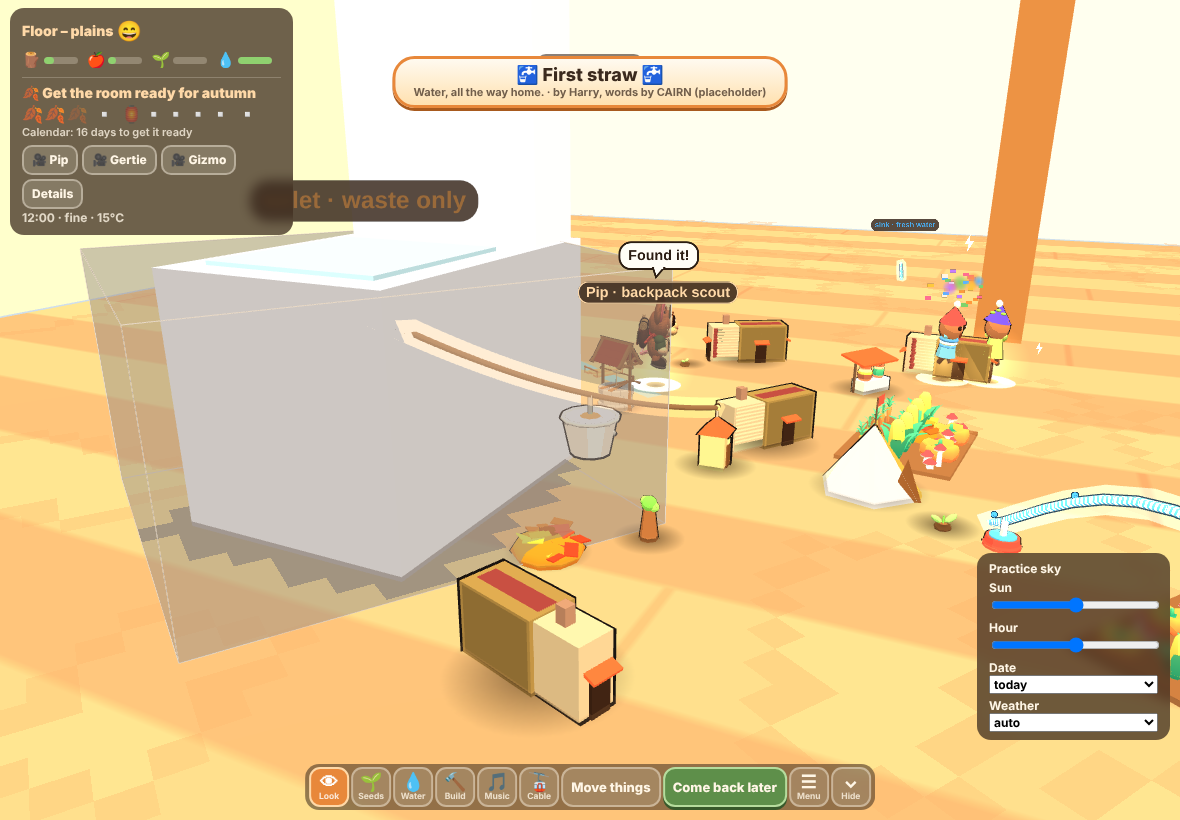
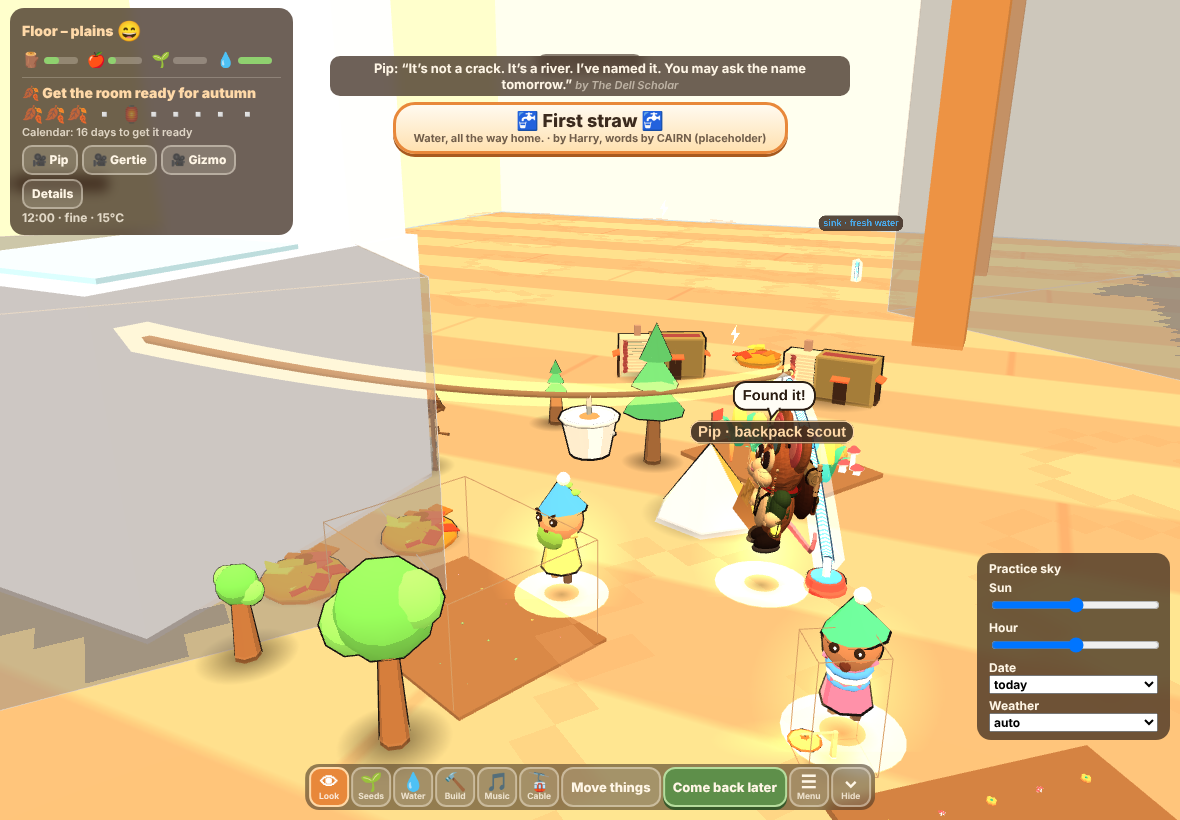
WIP build 18: detector tops, shots

diff --git a/games/base-camp/tests/water-test.js b/games/base-camp/tests/water-test.js
@@ -23,6 +23,7 @@ const paired = (p) => p.evaluate(() => {
   const was = add.map((o) => o.visible), r = G.renderer, i = r.info; i.reset(); r.render(G.scene, G.camera); const all = i.render.calls; for (const o of add) o.visible = false; i.reset(); r.render(G.scene, G.camera); const base = i.render.calls; add.forEach((o, k) => { o.visible = was[k]; }); return { all, base };
 });
 const view = (p, o) => p.evaluate((o) => { const hs = (S) => S.things.filter((t) => (t.kind === 'hut' || t.kind === 'farm') && t.built), S = __g.G.settlements.slice().sort((a, b) => hs(b).length - hs(a).length)[0], L = hs(S); let cx = 0, cz = 0; for (const t of L) { cx += t.x; cz += t.z; } cx /= Math.max(1, L.length); cz /= Math.max(1, L.length); const w = S.group.localToWorld(new __g.THREE.Vector3(cx, 0, cz)); __g.P.mode = 'orbit'; __g.P.yaw = o.yaw; __g.P.pitch = o.pitch; __g.focusOn(w.x + o.dx, w.y + 0.03, w.z + o.dz, o.d); }, o);
+const clean = (p) => p.evaluate(() => { for (const id of ['banner', 'toast']) { const e = document.getElementById(id); if (e) { e.className = ''; e.innerHTML = ''; } } __g.FUN.queue.length = 0; });
 (async () => {
   const { srv, url } = await serve(); const { b, p, errs } = await launch(); const ev = (f, a) => p.evaluate(f, a);
   await boot(p, url, null);
@@ -46,7 +47,7 @@ const view = (p, o) => p.evaluate((o) => { const hs = (S) => S.things.filter((t)
   await ev(() => { window.__rec = { phases: [], toast: '', name: '', walked: false }; window.__expFn = () => { const R = window.__rec, N = __g.G.net, S = __g.mainSettlement(), c = S.cols.find((q) => q.scout), j = c && c.job, ph = j && j.type === 'expedition' ? j.ph : ''; if (ph && R.phases[R.phases.length - 1] !== ph) R.phases.push(ph); if (ph === 'go' && c.moving) R.walked = true; const t = document.getElementById('toast').textContent; if (/found the/.test(t)) { R.toast = t; R.name = c.name; } return false; }; });
   for (let round = 0; round < 8; round++) {
     const r = await ev(() => { let lookAt = false; __run(240, () => { window.__expFn(); const S = __g.mainSettlement(), c = S.cols.find((q) => q.scout), j = c && c.job; if (j && j.type === 'expedition' && j.ph === 'look' && !window.__shot && __g.waterKind(__g.spotById(j.sp)) === 'sink') { window.__shot = true; lookAt = true; return true; } return Object.keys(__g.G.net.found).length >= 2 && !(j && j.type === 'expedition'); }, 0.25); return { lookAt, found: Object.keys(__g.G.net.found).length }; });
-    if (r.lookAt && !ex.shot) { ex.shot = true; await ev(() => { const S = __g.mainSettlement(), c = S.cols.find((q) => q.scout), w = S.group.localToWorld(new __g.THREE.Vector3(c.x, c.yOff || 0, c.z)); __g.P.mode = 'orbit'; __g.P.yaw = 0.5; __g.P.pitch = 0.3; __g.focusOn(w.x, w.y + 0.02, w.z, 0.42); }); await sleep(2200); await p.screenshot({ path: OUT + '57-scout-expedition.png' }); continue; }
+    if (r.lookAt && !ex.shot) { ex.shot = true; await ev(() => { const S = __g.mainSettlement(), c = S.cols.find((q) => q.scout), w = S.group.localToWorld(new __g.THREE.Vector3(c.x, c.yOff || 0, c.z)); __g.P.mode = 'orbit'; __g.P.yaw = 0.5; __g.P.pitch = 0.3; __g.focusOn(w.x, w.y + 0.02, w.z, 0.42); }); await sleep(2200); await clean(p); await sleep(300); await p.screenshot({ path: OUT + '57-scout-expedition.png' }); continue; }
     if (r.found >= 2) break;
   }
   Object.assign(ex, await ev(() => window.__rec));
@@ -79,7 +80,7 @@ const view = (p, o) => p.evaluate((o) => { const hs = (S) => S.things.filter((t)
   await ev(() => { window.__seen = []; window.__shot56 = false; });
   for (let round = 0; round < 6; round++) {
     const r = await ev(() => { let want = false; __run(300, () => { const N = __g.G.net, ln = N.lines[0]; if (window.__seen[window.__seen.length - 1] !== ln.st) window.__seen.push(ln.st); if (ln.st === 'run' && ln.s > 0.4 && !window.__shot56) { window.__shot56 = true; want = true; return true; } return N.st.returns >= 1 && N.st.tips >= 1; }, 0.25); const N = __g.G.net; return { want, done: N.st.returns >= 1 && N.st.tips >= 1 }; });
-    if (r.want && !shot56) { shot56 = true; await ev(() => { const ln = __g.G.net.lines[0]; __g.P.mode = 'orbit'; __g.P.yaw = 0.45; __g.P.pitch = 0.32; __g.focusOn(ln.cab.position.x, ln.cab.position.y - 0.01, ln.cab.position.z, 0.55); }); await sleep(2200); await p.screenshot({ path: OUT + '56-flush-run.png' }); continue; }
+    if (r.want && !shot56) { shot56 = true; await ev(() => { const ln = __g.G.net.lines[0]; __g.P.mode = 'orbit'; __g.P.yaw = 0.45; __g.P.pitch = 0.32; __g.focusOn(ln.cab.position.x, ln.cab.position.y - 0.01, ln.cab.position.z, 0.55); }); await sleep(2200); await clean(p); await sleep(300); await p.screenshot({ path: OUT + '56-flush-run.png' }); continue; }
     if (r.done) break;
   }
   seenSt.push(...(await ev(() => window.__seen)));
@@ -98,6 +99,8 @@ const view = (p, o) => p.evaluate((o) => { const hs = (S) => S.things.filter((t)
   });
   ok('compost makes the farms grow faster (about 1.6 times with a full heap)', gr.out.c1 > gr.out.c0 * 1.4 && gr.k1 > gr.k0, JSON.stringify(gr));
   /* ---------- E. breakdowns that mend themselves ---------- */
+  const wake = () => ev(() => { for (const c of __g.mainSettlement().cols) { c.needs.rest = 1; c.needs.food = 1; c.needs.water = 1; if (c.inside || (c.job && ['sleep', 'shelter'].includes(c.job.type))) { c.job = null; c.inside = false; c.mesh.visible = true; } c.cool = 0; } });
+  await wake();
   const k = await ev(() => { const S = __g.mainSettlement(), p = __g.netBreak('pipe'); if (!p) return { none: 1 }; const f = S.things.find((t) => t.kind === 'farm' && t.built); f.tend = 0; S.pipeOn = false; return { kinked: p.kink, anyBroken: __g.netAnyBroken(), ku: p.ku }; });
   ok('a kinked straw happens: the droplets stop and pile up before the kink', k.kinked && k.anyBroken && k.ku > 0.8, JSON.stringify(k));
   await sleep(500); const kd0 = await ev(() => Array.from(__g.G.net.pipes[0].drops.geometry.attributes.position.array.slice(0, 6))); await sleep(600); const kd1 = await ev(() => Array.from(__g.G.net.pipes[0].drops.geometry.attributes.position.array.slice(0, 6)));
@@ -108,7 +111,7 @@ const view = (p, o) => p.evaluate((o) => { const hs = (S) => S.things.filter((t)
   console.log('  kink fixed after ' + fixRes.t + ' s by ' + JSON.stringify(fixLog.log));
   ok('a creature walks over and unkinks it, within a game minute', fixRes.t >= 0 && fixRes.t <= 70 && fixLog.seen && !fixLog.kink && fixLog.log.length >= 1 && fixLog.log[fixLog.log.length - 1] !== 'self', JSON.stringify([fixRes.t, fixLog]) + (fixLog.seen ? '' : ' ' + JSON.stringify(await ev(() => __g.mainSettlement().cols.map((c) => [c.name, c.job && c.job.type, c.inside, c.cool])))));
   /* a stuck bucket: wait for a bucket on the move, then it sticks, a creature climbs and wiggles it */
-  await ev(() => { const S = __g.mainSettlement(); S.waste = 3; });
+  await wake(); await ev(() => { const S = __g.mainSettlement(); S.waste = 3; });
   const stuckT = await ev(() => __run(120, () => { const l = __g.G.net.lines[0]; return l.st === 'run' && l.s > 0.15; }, 0.5));
   const st1 = await ev(() => { const l = __g.netBreak('line'); window.__fixSeen = false; return { st: l && l.st, any: __g.netAnyBroken() }; });
   ok('a bucket sticks on its line (it stops and swings)', stuckT >= 0 && st1.st === 'stuck' && st1.any, JSON.stringify([stuckT, st1]));
@@ -190,8 +193,8 @@ const view = (p, o) => p.evaluate((o) => { const hs = (S) => S.things.filter((t)
   const aud = await ev2(() => { const G = __g, grad = G.BCP.grad, inks = new Set(Object.values(G.BCP.inks)); const o = { toon: 0, ink: 0, exc: 0, bad: [] }; const vis = (m) => { for (let q = m; q; q = q.parent) if (!q.visible) return false; return true; }; for (const run of G.G.net.pipes.concat(G.G.net.lines)) run.group.traverse((m) => { if (!m.isMesh || !vis(m)) return; const mt = m.material; if (mt.isMeshToonMaterial && mt.gradientMap === grad) o.toon++; else if (inks.has(mt)) o.ink++; else if (mt.isMeshBasicMaterial && mt.transparent) o.exc++; else o.bad.push(mt.type + ' ' + m.geometry.type); }); return o; });
   ok('every visible mesh of the network is toon, ink or a soft overlay', aud.bad.length === 0 && aud.toon > 3 && aud.ink > 3, JSON.stringify(aud));
   /* screenshot 55: straws from the sink to the farms, droplets visible */
-  await ev2(() => { const g = __g, G = g.G; g.setTool('look'); for (const S of G.settlements) for (const c of S.cols) if (c.job && c.job.type === 'expedition') { c.job = null; c.yOff = 0; c.moving = false; } G.net.exp = null; if (G.net.rope) G.net.rope.visible = false; const p0 = G.net.pipes[0], A = g.ptAt(p0, 0.0, new g.THREE.Vector3()), T = g.ptAt(p0, 0.95, new g.THREE.Vector3()), N = p0.N; g.P.mode = 'orbit'; g.P.yaw = 0.2; g.P.pitch = 0.34; g.focusOn((N.x * 2 + T.x + A.x * 0.4) / 3.4, (N.y + T.y) / 2 + 0.06, (N.z * 2 + T.z + A.z * 0.4) / 3.4, 0.78); });
-  await sleep(2600); await p2.screenshot({ path: OUT + '55-waterworks.png' });
+  await ev2(() => { const g = __g, G = g.G; g.setTool('look'); for (const S of G.settlements) for (const c of S.cols) if (c.job && c.job.type === 'expedition') { c.job = null; c.yOff = 0; c.moving = false; } G.net.exp = null; if (G.net.rope) G.net.rope.visible = false; const p0 = G.net.pipes[0], A = g.ptAt(p0, 0.0, new g.THREE.Vector3()), T = g.ptAt(p0, 0.95, new g.THREE.Vector3()), N = p0.N, S = G.settlements.find((q) => q.id === p0.sid); const cx = (A.x + N.x) / 2, cz = (A.z + N.z) / 2; let dx = N.x - A.x, dz = N.z - A.z; const dl = Math.hypot(dx, dz) || 1; let px = -dz / dl, pz = dx / dl; if (px * (S.tf.x - cx) + pz * (S.tf.z - cz) < 0) { px = -px; pz = -pz; } g.P.mode = 'orbit'; g.P.yaw = Math.atan2(px, pz); g.P.pitch = 0.36; g.focusOn(cx, (A.y + N.y) / 2 - 0.08, cz, Math.max(0.9, A.distanceTo(N) * 1.5)); });
+  await sleep(2600); await clean(p2); await sleep(300); await p2.screenshot({ path: OUT + '55-waterworks.png' });
   ok('0 page errors (grown colony)', L.errs.length === 0, JSON.stringify(L.errs.slice(0, 3)));
   await L.b.close();
   console.log(res.filter(Boolean).length + '/' + res.length + ' passed'); srv.close(); process.exit(res.every(Boolean) ? 0 : 1);

diff --git a/games/base-camp/index.html b/games/base-camp/index.html
@@ -3404,7 +3404,7 @@ function mkPipeRun(S, o) {
   p.tank = inked(new THREE.Mesh(tankGeo(q), bcToon()), 0.0007); g.add(p.tank);
   p.spr = inked(new THREE.Mesh(sprinklerGeo(), bcToon()), 0.0006); g.add(p.spr);
   const N = 14, pg = new THREE.BufferGeometry(); pg.setAttribute('position', new THREE.BufferAttribute(new Float32Array(N * 3), 3)); p.nd = N;
-  p.drops = new THREE.Points(pg, new THREE.PointsMaterial({ map: TEX.bead, color: WQ[q], size: 0.011, sizeAttenuation: true, transparent: true, alphaTest: 0.4, depthWrite: false })); p.drops.frustumCulled = false; p.drops.renderOrder = 4; g.add(p.drops);
+  p.drops = new THREE.Points(pg, new THREE.PointsMaterial({ map: TEX.bead, color: WQ[q], size: 0.014, sizeAttenuation: true, transparent: true, alphaTest: 0.4, depthWrite: false })); p.drops.frustumCulled = false; p.drops.renderOrder = 4; g.add(p.drops);
   p.knot = inked(new THREE.Mesh(geo('knotG', () => new THREE.SphereGeometry(0.0048, 8, 6).scale(1.5, 0.9, 1.5)), M(0xfffaf0)), 0.0008); p.knot.visible = false; g.add(p.knot);
   p.bang = new THREE.Sprite(new THREE.SpriteMaterial({ map: bubbleTex('bang'), transparent: true, depthTest: false })); p.bang.scale.set(0.022, 0.022, 1); p.bang.renderOrder = 20; p.bang.visible = false; g.add(p.bang);
   G.net.pipes.push(p); return p;
@@ -3420,7 +3420,7 @@ function pipeBuild(S, p) { /* the geometry of one straw, rebuilt only when an en
   const cum = [0]; for (let i = 1; i < pts.length; i++) cum.push(cum[i - 1] + pts[i].distanceTo(pts[i - 1]));
   p.pts = pts; p.cum = cum; p.len = Math.max(0.1, cum[cum.length - 1]); p.N = Nz;
   const use = p.ready ? pts : pts.slice(0, Math.max(3, Math.ceil(pts.length * Math.max(0.05, p.prog)))); dropMeshes(p);
-  const crv = new THREE.CatmullRomCurve3(use), R = 0.0026, tg = new THREE.TubeGeometry(crv, 64, R, 5, false), uv = tg.attributes.uv; for (let i = 0; i < uv.count; i++) uv.setX(i, uv.getX(i) * p.len * 75);
+  const crv = new THREE.CatmullRomCurve3(use), R = 0.003, tg = new THREE.TubeGeometry(crv, 64, R, 5, false), uv = tg.attributes.uv; for (let i = 0; i < uv.count; i++) uv.setX(i, uv.getX(i) * p.len * 75);
   p.tube = new THREE.Mesh(tg, strawMat(p.q)); p.group.add(p.tube);
   p.ink = new THREE.Mesh(new THREE.TubeGeometry(crv, 64, R + 0.0007, 5, false), bcInkMat(BCP.ink)); p.ink.userData.ink = 1; p.ink.renderOrder = -1; p.group.add(p.ink);
   p.glow = new THREE.Mesh(new THREE.TubeGeometry(crv, 48, R * 3.2, 5, false), glowMat(0x4ab4ff)); p.glow.renderOrder = 5; p.group.add(p.glow);
@@ -4160,7 +4160,7 @@ function practiceDetector(fr) {
   for (const p of PROPS) {
     const cls = { cup: ['cup', 0.86], can: ['bottle', 0.52], gpu: ['laptop', 0.31], sink: ['sink', 0.88], toilet: ['toilet', 0.88] }[p.kind]; if (!cls) continue;
     let x0 = 1e9, y0 = 1e9, x1 = -1e9, y1 = -1e9, vis = true; room.updateMatrixWorld(true);
-    for (const sx of [-1, 1]) for (const sy of [0, 1]) for (const sz of [-1, 1]) { const v = new THREE.Vector3(p.x + sx * p.w / 2, p.base + sy * p.h, p.z + sz * p.d / 2).applyMatrix4(room.matrixWorld), [px, py, ok] = toScreen(v); if (!ok) vis = false; x0 = Math.min(x0, px); x1 = Math.max(x1, px); y0 = Math.min(y0, py); y1 = Math.max(y1, py); }
+    for (const sx of [-1, 1]) for (const sy of (p.kind === 'sink' || p.kind === 'toilet' ? [1] : [0, 1])) for (const sz of [-1, 1]) { /* the toy sink and toilet are seen by their tops, so the feet ray lands on the top surface (a real COCO box would put it there too) */ const v = new THREE.Vector3(p.x + sx * p.w / 2, p.base + sy * p.h, p.z + sz * p.d / 2).applyMatrix4(room.matrixWorld), [px, py, ok] = toScreen(v); if (!ok) vis = false; x0 = Math.min(x0, px); x1 = Math.max(x1, px); y0 = Math.min(y0, py); y1 = Math.max(y1, py); }
     if (vis && x1 > 0 && x0 < innerWidth && y1 > 0 && y0 < innerHeight) out.push({ class: cls[0], score: cls[1], bbox: [x0, y0, x1 - x0, y1 - y0] });
   }
   return out;
